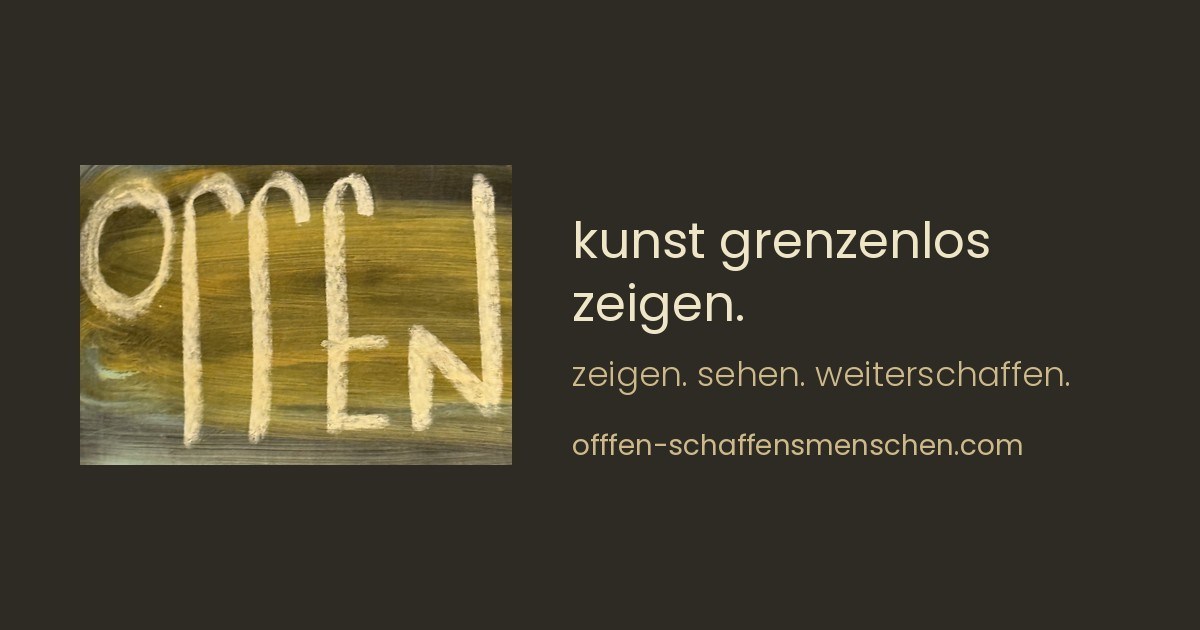
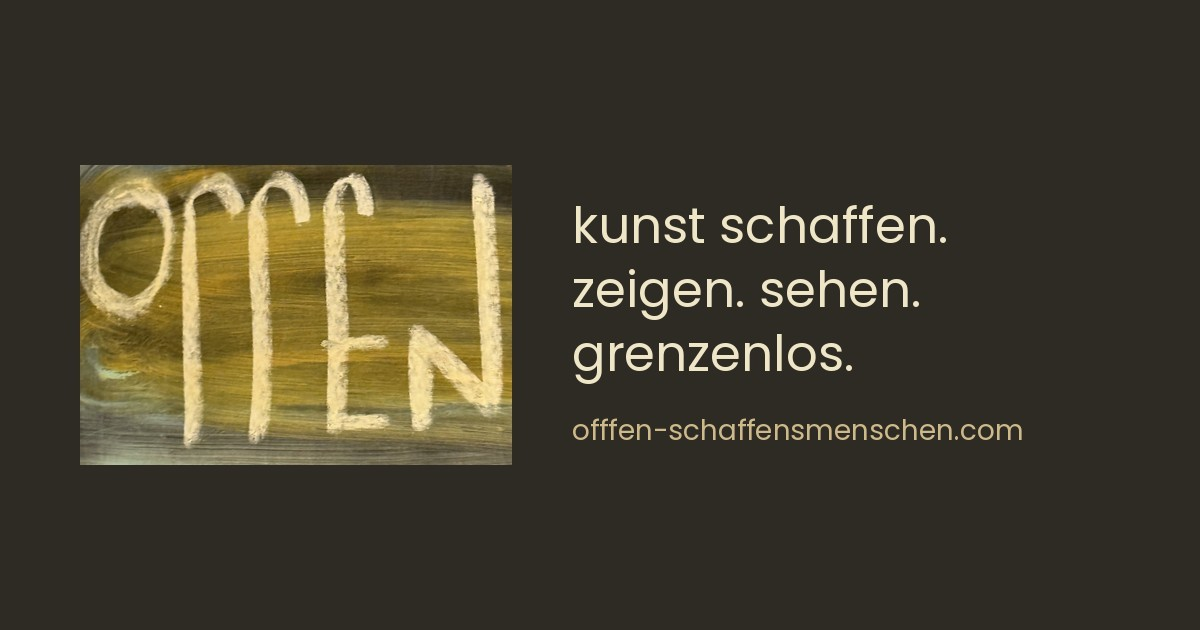
Add files via upload

Changed region(s): [[0.4625, 0.3317, 0.8942, 0.6333], [0.4625, 0.6635, 0.8633, 0.7238]]

diff --git a/index.html b/index.html
@@ -3,11 +3,11 @@
 <head>
 <meta charset="UTF-8">
 <meta name="viewport" content="width=device-width, initial-scale=1.0">
-<title>kunst grenzenlos zeigen — OFFFEN</title>
-<meta name="description" content="offfen — schaffensmenschen. zeigen. sehen. weiterschaffen. die künstlerkolonie von heute: digital, international, kontakte statt gewinn.">
+<title>kunst schaffen. zeigen. sehen. grenzenlos. — OFFFEN</title>
+<meta name="description" content="offfen — schaffensmenschen. zeigen. sehen. weiterschaffen. ein raum für künstler: digital, international, kontakte statt gewinn.">
 <meta property="og:type" content="website">
-<meta property="og:title" content="kunst grenzenlos zeigen — OFFFEN">
-<meta property="og:description" content="zeigen. sehen. weiterschaffen. die künstlerkolonie von heute, digital und international.">
+<meta property="og:title" content="kunst schaffen. zeigen. sehen. grenzenlos. — OFFFEN">
+<meta property="og:description" content="zeigen. sehen. weiterschaffen. ein raum für künstler, digital und international.">
 <meta property="og:image" content="https://offfen-schaffensmenschen.com/offfen-vorschau.jpg">
 <meta property="og:image:width" content="1200">
 <meta property="og:image:height" content="630">
@@ -369,8 +369,8 @@
         <span data-i18n="en"><span class="frame"><span class="ln l1"><span class="sp">We break</span> <span class="gr">boundaries<svg class="flick" viewBox="0 0 260 110" aria-hidden="true"><defs><filter id="kr2" x="-10%" y="-30%" width="120%" height="160%"><feTurbulence type="fractalNoise" baseFrequency="0.9" numOctaves="2" seed="4" result="n"/><feDisplacementMap in="SourceGraphic" in2="n" scale="3" result="d"/><feColorMatrix in="n" type="matrix" values="0 0 0 0 0 0 0 0 0 0 0 0 0 0 0 0 0 0 -2.1 1.55" result="m"/><feComposite in="d" in2="m" operator="in"/></filter></defs><g filter="url(#kr2)" stroke="#efe6c8" fill="none" stroke-linecap="round" stroke-linejoin="round"><path d="M-2,56 C20,54 50,57 92,54 C116,52 134,50 140,32 C145,13 119,8 108,23 C97,37 112,55 134,50 C160,44 190,20 224,-7" stroke-width="4.6" opacity=".85"/><path d="M-2,56 C20,54 50,57 92,54 C116,52 134,50 140,32 C145,13 119,8 108,23 C97,37 112,55 134,50 C160,44 190,20 224,-7" stroke-width="2.2" transform="translate(1.2,1.4)" stroke-dasharray="26 4 14 6 40 3" opacity=".6"/></g></svg></span>.</span><span class="ln l2">We create space.<span class="rr" aria-hidden="true"></span></span></span></span><span data-i18n="es"><span class="frame"><span class="ln l1"><span class="sp">Rompemos</span> <span class="gr">límites<svg class="flick" viewBox="0 0 260 110" aria-hidden="true"><defs><filter id="kr3" x="-10%" y="-30%" width="120%" height="160%"><feTurbulence type="fractalNoise" baseFrequency="0.9" numOctaves="2" seed="5" result="n"/><feDisplacementMap in="SourceGraphic" in2="n" scale="3" result="d"/><feColorMatrix in="n" type="matrix" values="0 0 0 0 0 0 0 0 0 0 0 0 0 0 0 0 0 0 -2.1 1.55" result="m"/><feComposite in="d" in2="m" operator="in"/></filter></defs><g filter="url(#kr3)" stroke="#efe6c8" fill="none" stroke-linecap="round" stroke-linejoin="round"><path d="M-2,56 C20,54 50,57 92,54 C116,52 134,50 140,32 C145,13 119,8 108,23 C97,37 112,55 134,50 C160,44 190,20 224,-7" stroke-width="4.6" opacity=".85"/><path d="M-2,56 C20,54 50,57 92,54 C116,52 134,50 140,32 C145,13 119,8 108,23 C97,37 112,55 134,50 C160,44 190,20 224,-7" stroke-width="2.2" transform="translate(1.2,1.4)" stroke-dasharray="26 4 14 6 40 3" opacity=".6"/></g></svg></span>.</span><span class="ln l2">Creamos espacio.<span class="rr" aria-hidden="true"></span></span></span></span><span data-i18n="fr"><span class="frame"><span class="ln l1"><span class="sp">Nous brisons les</span> <span class="gr">limites<svg class="flick" viewBox="0 0 260 110" aria-hidden="true"><defs><filter id="kr4" x="-10%" y="-30%" width="120%" height="160%"><feTurbulence type="fractalNoise" baseFrequency="0.9" numOctaves="2" seed="6" result="n"/><feDisplacementMap in="SourceGraphic" in2="n" scale="3" result="d"/><feColorMatrix in="n" type="matrix" values="0 0 0 0 0 0 0 0 0 0 0 0 0 0 0 0 0 0 -2.1 1.55" result="m"/><feComposite in="d" in2="m" operator="in"/></filter></defs><g filter="url(#kr4)" stroke="#efe6c8" fill="none" stroke-linecap="round" stroke-linejoin="round"><path d="M-2,56 C20,54 50,57 92,54 C116,52 134,50 140,32 C145,13 119,8 108,23 C97,37 112,55 134,50 C160,44 190,20 224,-7" stroke-width="4.6" opacity=".85"/><path d="M-2,56 C20,54 50,57 92,54 C116,52 134,50 140,32 C145,13 119,8 108,23 C97,37 112,55 134,50 C160,44 190,20 224,-7" stroke-width="2.2" transform="translate(1.2,1.4)" stroke-dasharray="26 4 14 6 40 3" opacity=".6"/></g></svg></span>.</span><span class="ln l2">Nous créons de l'espace.<span class="rr" aria-hidden="true"></span></span></span></span>
       </h1>
       <p class="lede">
-        <span data-i18n="de" class="lang-active">zeigen. sehen. weiterschaffen.<br><br>offfen ist der ort dafür: die künstlerkolonie von heute, digital und international. grenzen auf, kontakte statt gewinn.<br><br>zeig, was gerade entsteht — ein foto, eine skizze, eine frage. worauf wartest du?</span>
-        <span data-i18n="en">show. see. keep creating.<br><br>offfen is the place for it: the artists' colony of today, digital and international. open boundaries, contacts instead of profit.<br><br>show what's taking shape — a photo, a sketch, a question. what are you waiting for?</span><span data-i18n="es">mostrar. ver. seguir creando.<br><br>offfen es el lugar para ello: la colonia de artistas de hoy, digital e internacional. fronteras abiertas, contactos en lugar de beneficio.<br><br>muestra lo que está surgiendo: una foto, un boceto, una pregunta. ¿qué esperas?</span><span data-i18n="fr">montrer. voir. continuer à créer.<br><br>offfen est le lieu pour cela : la colonie d'artistes d'aujourd'hui, numérique et internationale. des frontières ouvertes, des contacts plutôt que du profit.<br><br>montre ce qui est en train de naître : une photo, une esquisse, une question. qu'attends-tu ?</span>
+        <span data-i18n="de" class="lang-active">zeigen. sehen. weiterschaffen.<br><br>offfen ist der ort dafür: ein raum für künstler, digital und international. grenzen auf, kontakte statt gewinn.<br><br>zeig, was gerade entsteht — ein foto, eine skizze, eine frage. worauf wartest du?</span>
+        <span data-i18n="en">show. see. keep creating.<br><br>offfen is the place for it: an open space for artists, digital and international. open boundaries, contacts instead of profit.<br><br>show what's taking shape — a photo, a sketch, a question. what are you waiting for?</span><span data-i18n="es">mostrar. ver. seguir creando.<br><br>offfen es el lugar para ello: un espacio abierto para artistas, digital e internacional. fronteras abiertas, contactos en lugar de beneficio.<br><br>muestra lo que está surgiendo: una foto, un boceto, una pregunta. ¿qué esperas?</span><span data-i18n="fr">montrer. voir. continuer à créer.<br><br>offfen est le lieu pour cela : un espace ouvert aux artistes, numérique et international. des frontières ouvertes, des contacts plutôt que du profit.<br><br>montre ce qui est en train de naître : une photo, une esquisse, une question. qu'attends-tu ?</span>
       </p>
       <div class="cta-row">
         <a class="cta primary" href="mailto:raum@offfen-schaffensmenschen.com?subject=Ein%20Detail%20von%20mir">
